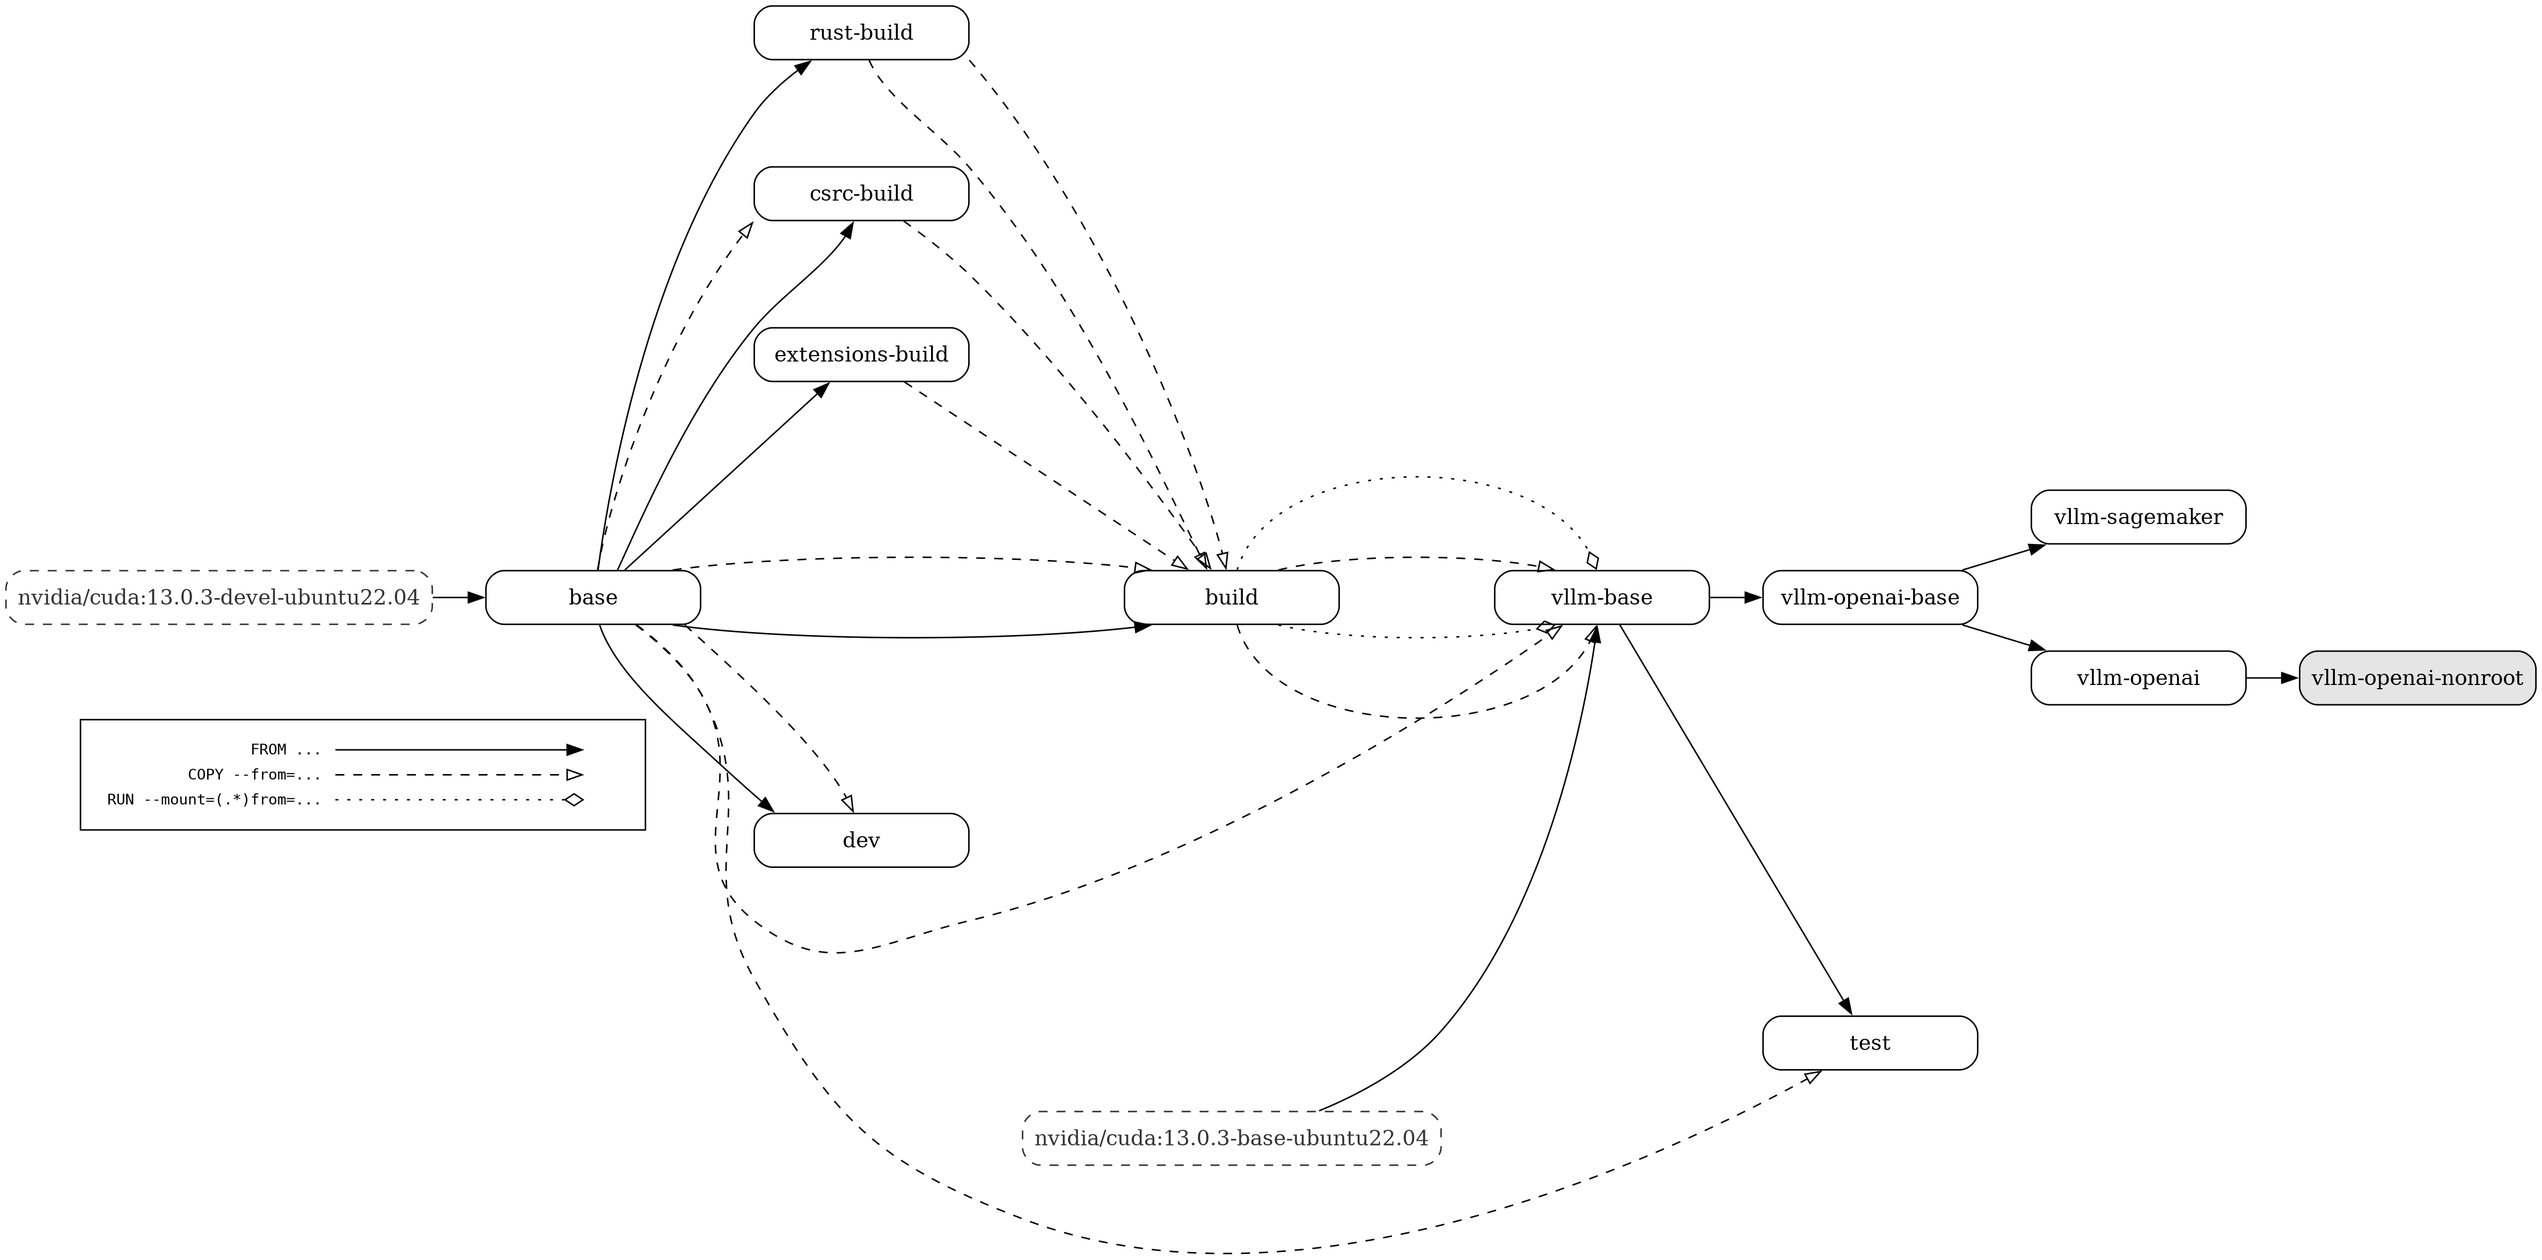
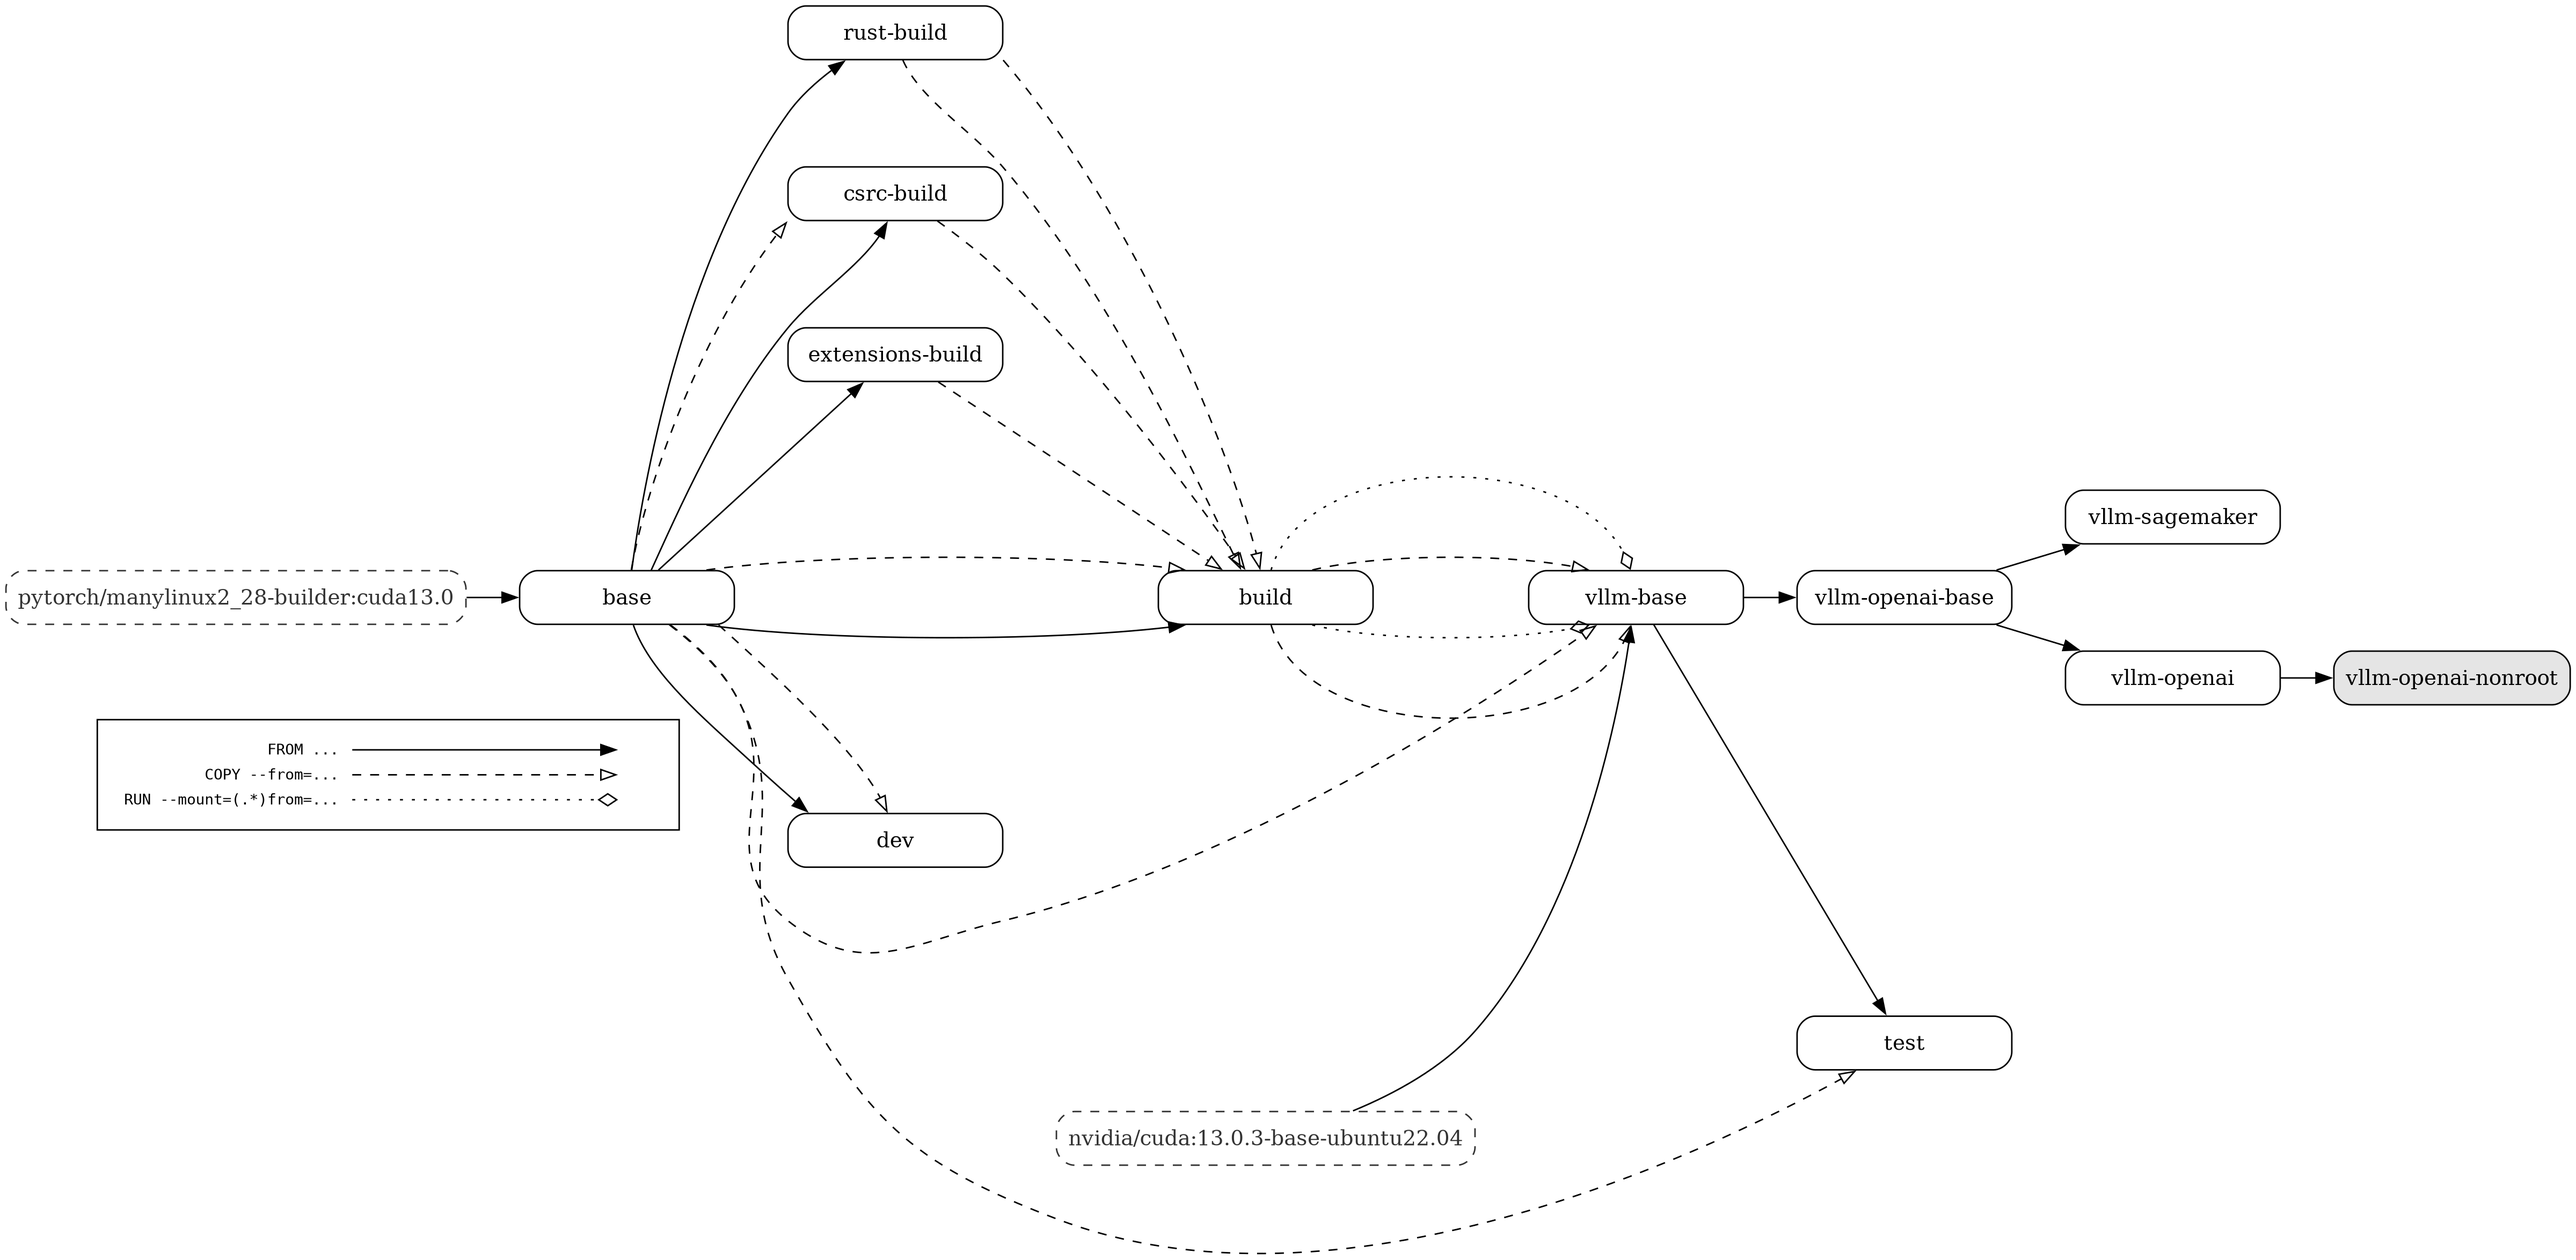
[Build] Remove Ubuntu build-stage option from the CUDA dockerfile (#51060)

diff --git a/docs/getting_started/installation/gpu.cuda.inc.md b/docs/getting_started/installation/gpu.cuda.inc.md
@@ -384,6 +384,7 @@ A docker container can be built for aarch64 systems such as the Nvidia Grace-Hop
     -t vllm/vllm-gh200-openai:latest \
     --build-arg max_jobs=66 \
     --build-arg nvcc_threads=2 \
+    --build-arg BUILD_BASE_IMAGE=pytorch/manylinuxaarch64-builder:cuda13.0 \
     --build-arg torch_cuda_arch_list="9.0 10.0+PTX"
     ```
 
@@ -394,7 +395,7 @@ For (G)B300, we recommend using CUDA 13, as shown in the following command.
     ```bash
     DOCKER_BUILDKIT=1 docker build \
     --build-arg CUDA_VERSION=13.0.2 \
-    --build-arg BUILD_BASE_IMAGE=nvidia/cuda:13.0.2-devel-ubuntu22.04 \
+    --build-arg BUILD_BASE_IMAGE=pytorch/manylinuxaarch64-builder:cuda13.0 \
     --build-arg max_jobs=256 \
     --build-arg nvcc_threads=2 \
     --build-arg torch_cuda_arch_list='9.0 10.0+PTX' \
